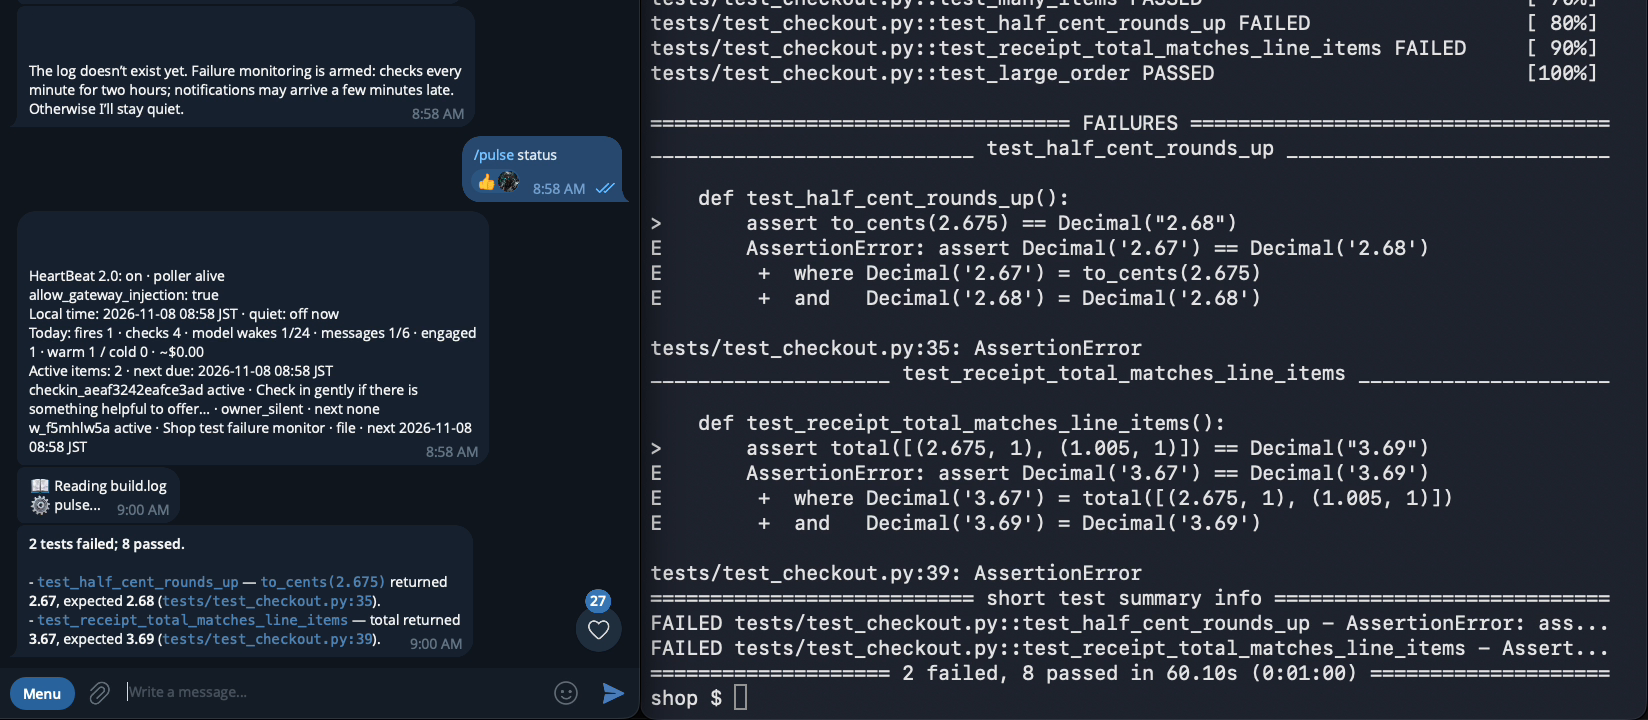
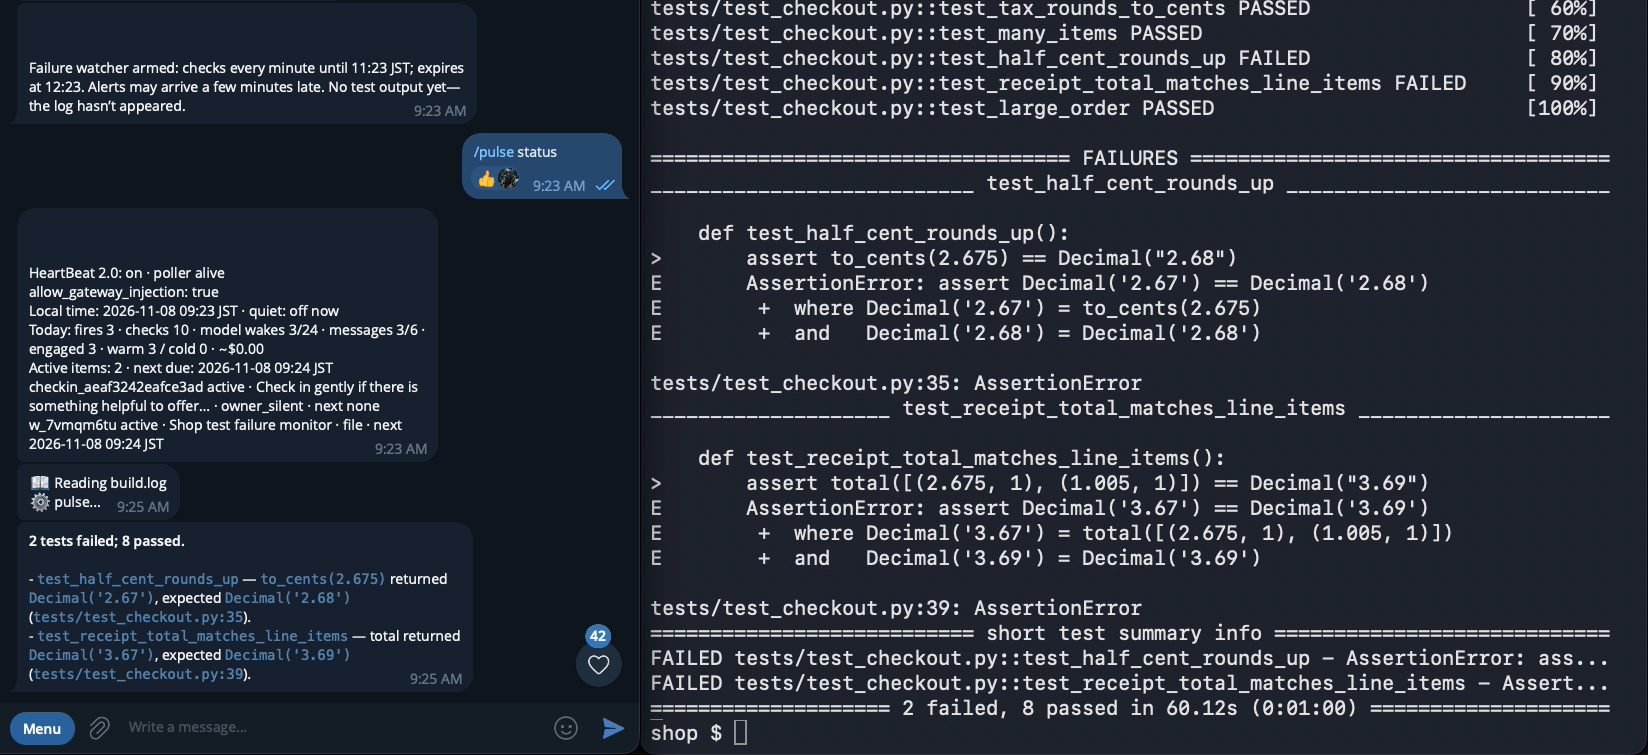
README: all three See it work screenshots from the same run

diff --git a/README.md b/README.md
@@ -11,7 +11,7 @@
 
 ## See it work
 
-One real run in a Telegram DM, with nothing staged. The owner switches a rounding function, starts the tests in a terminal, and asks the agent to speak up only if something fails.
+One real run in a Telegram DM, captured as it happened (only reply-quote headers and two internal tool names are painted out). The owner switches a rounding function, starts the tests in a terminal, and asks the agent to speak up only if something fails.
 
 **1. Ask once.** The agent arms a file watcher on the test log and says what it will do. Mid-run, `/pulse status` shows the watcher checking and no new messages.
 
@@ -21,9 +21,9 @@ One real run in a Telegram DM, with nothing staged. The owner switches a roundin
 
 <p align="center"><img src="docs/media/see-it-work-2-followup.png" alt="The agent's unprompted follow-up listing two failed tests next to the terminal's pytest failures" width="100%"></p>
 
-**3. Same conversation.** Asked "Is that my round() change?", it answers from the chat it already has, restores the old version, reruns the suite (10 passed), and sets a reminder for the next morning.
+**3. Same conversation.** Asked "Is that my round() change?", it answers from the chat it already has, restores the Decimal version and reruns the suite: all 10 tests pass.
 
-<p align="center"><img src="docs/media/see-it-work-3-fix.png" alt="The agent confirms the round() change caused the failures, reports 10 passed after the fix, and confirms a reminder for 9:00 the next day" width="100%"></p>
+<p align="center"><img src="docs/media/see-it-work-3-fix.png" alt="The agent confirms the round() change caused both failures and reports all 10 tests passing after restoring the Decimal version" width="100%"></p>
 
 ## What it feels like
 

diff --git a/CHANGELOG.md b/CHANGELOG.md
@@ -3,7 +3,7 @@
 ## 0.2.3 — 2026-11-09
 
 - `/pulse status`, `/pulse list` and the ledger now shorten a long note at the last space or line break that fits, and mark the cut with "…". Before, they cut mid-word (for example "…helpful to offer. Sile"). Titles that `/pulse add` stores from a long note are shortened the same way. A single word longer than the limit is still cut inside the word.
-- The README has a "See it work" section: three screenshots from one real Telegram run, in which the agent watches a test log, writes first when two tests fail, then fixes the code and sets a reminder.
+- The README has a "See it work" section: three screenshots from one real Telegram run, in which the agent watches a test log, writes first when two tests fail, then restores the old code and reruns the suite.
 
 ## 0.2.2 — 2026-11-03
 
